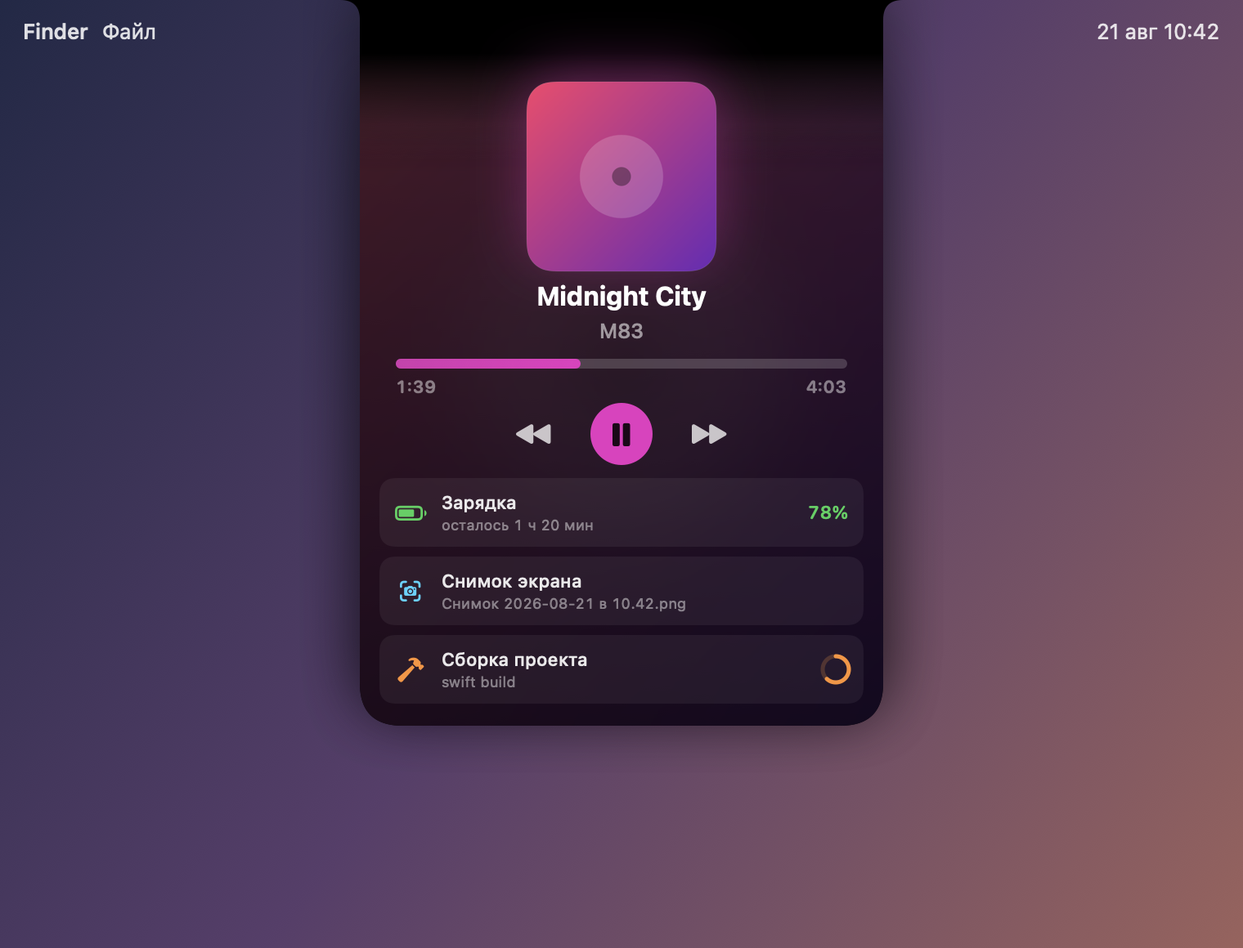
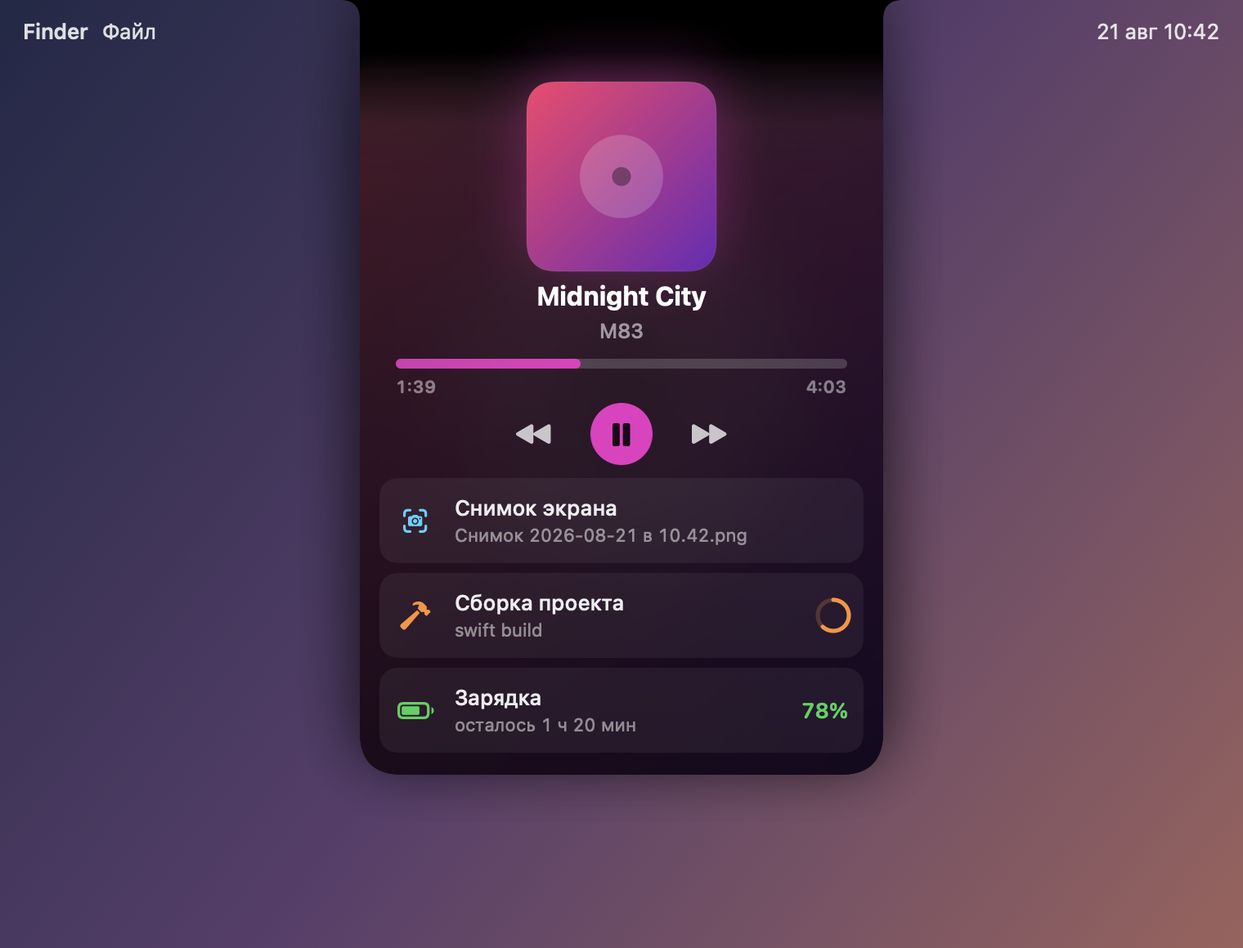
Иконки уведомлений, срезанные бока и тонкая обводка
**Иконки не находились у всех приложений с переводимым именем.**
В баннере имя на языке системы — «Редактор скриптов», — а в Info.plist
английское. Перевод лежит отдельной таблицей внутри бандла, и ни
displayName(atPath:), ни localizedInfoDictionary до неё не добираются:
они смотрят на язык нашего процесса, а не на содержимое чужого бандла.
Почта, Сообщения, Фото, Календарь — все оставались с нарисованной буквой
вместо иконки. Теперь приложения индексируются под всеми своими именами
сразу. Проверено живьём: значок стал настоящим.

**Срезанные бока.** Окно у карточки события и раскрытой панели общее,
а размер считался только по панели — карточка шире неё обрезалась вместе
со свечением. Диагностика заодно научилась отличать настоящую иконку
от нарисованной и показывать узлы последних баннеров: без этого понять,
почему у уведомления нет значка, нельзя.

**Крупнее — там, где просили.** Строки списка в раскрытом острове: 52
точки вместо 42, значок 32 вместо 24, текст 13 и 11 вместо 11 и 9.
А карточка уведомления вернулась к обычному размеру — увеличивать нужно
было не её.

**Тонкая линия вместо подтёка.** Обводка — одна линия в 1.2 точки, блик
бежит по ней самой, свечение осталось одно и едва заметное.

Changed region(s): [[0.2783, 0.5276, 0.7112, 0.8379], [0.6493, 0.5276, 0.6803, 0.5586]]

diff --git a/Sources/AuraCore/Activities/NotificationMirrorProvider.swift b/Sources/AuraCore/Activities/NotificationMirrorProvider.swift
@@ -102,6 +102,12 @@ final class NotificationMirrorProvider: ObservableObject {
     /// в одном разговоре повторяется, и через минуту это уже новое событие,
     /// а не тот же баннер, прочитанный второй раз.
     private var seen: [String: Date] = [:]
+    /// Последние разобранные баннеры — для диагностики.
+    ///
+    /// Уведомления с телефона приходят не в том же виде, что от приложений
+    /// на Маке, и понять, почему у одного из них не нашлось значка, можно
+    /// только по узлам самого баннера.
+    private(set) var recentBanners: [[String]] = []
     /// Обход открытых баннеров. Работает, только пока они на экране.
     private var sweepTimer: Timer?
     private var sweepStartedAt = Date()
@@ -434,9 +440,16 @@ final class NotificationMirrorProvider: ObservableObject {
         DispatchQueue.main.asyncAfter(deadline: .now() + 0.35) { [weak self] in
             guard let self else { return }
             let texts = Self.texts(in: window)
+            self.remember(texts)
             if let content = Self.content(from: texts) { self.present(content) }
             self.startSweep()
         }
+    }
+
+    private func remember(_ texts: [String]) {
+        guard !texts.isEmpty, recentBanners.last != texts else { return }
+        recentBanners.append(texts)
+        if recentBanners.count > 10 { recentBanners.removeFirst() }
     }
 
     /// Сколько времени одно и то же сообщение считается тем же самым.
@@ -498,7 +511,9 @@ final class NotificationMirrorProvider: ObservableObject {
             let texts = Self.texts(in: window)
             // Раскрытый центр уведомлений — это не баннер: в нём висят
             // виджеты, погода и биржа, и разбирать его как сообщение нельзя.
-            guard texts.count <= 12, let content = Self.content(from: texts) else { continue }
+            guard texts.count <= 12 else { continue }
+            remember(texts)
+            guard let content = Self.content(from: texts) else { continue }
             latestBanner = window
             present(content)
         }
@@ -520,7 +535,10 @@ final class NotificationMirrorProvider: ObservableObject {
         guard rule != "off" else { return }
 
         let application = Self.application(named: content.app)
-        let icon = Self.icon(named: content.app)
+        // Имя приложения в баннере бывает пустым — уведомления с телефона
+        // приходят не в том же виде, что от приложений на Маке. Тогда буква
+        // берётся от отправителя: он есть всегда, и это лучше пустого места.
+        let icon = Self.icon(named: content.app) ?? Self.monogram(for: content.sender)
         let kind = Self.kind(from: content.body)
         let tint = settings.notificationTintFromIcon
             ? (icon?.accentColor ?? .indigo)
@@ -760,6 +778,14 @@ final class NotificationMirrorProvider: ObservableObject {
 
     private nonisolated(unsafe) static var monograms: [String: NSImage] = [:]
 
+    /// Нарисованный нами значок или настоящая иконка приложения.
+    /// В диагностике это единственный способ отличить «иконку не нашли»
+    /// от «иконки нет вовсе».
+    static func isMonogram(_ image: NSImage?) -> Bool {
+        guard let image else { return false }
+        return monograms.values.contains { $0 === image }
+    }
+
     /// Установленные приложения: имя → бандл.
     ///
     /// Перебор папок стоит десятки миллисекунд, а состав меняется редко,
@@ -811,12 +837,13 @@ final class NotificationMirrorProvider: ObservableObject {
                 // Имя в баннере — то, которое видит человек, а оно переведено:
                 // на русской системе «Сообщения», а в Info.plist «Messages».
                 // `displayName(atPath:)` отдаёт именно видимое имя.
-                let names = [
+                var names = [
                     FileManager.default.displayName(atPath: url.path),
                     Bundle(url: url)?.localizedInfoDictionary?["CFBundleDisplayName"] as? String,
                     Bundle(url: url)?.displayName,
                     url.deletingPathExtension().lastPathComponent,
                 ].compactMap { $0 }
+                names += localizedNames(of: url)
 
                 for name in names {
                     let key = normalized(name)
@@ -826,6 +853,42 @@ final class NotificationMirrorProvider: ObservableObject {
             }
         }
         return result
+    }
+
+    /// Все имена, под которыми приложение известно на разных языках.
+    ///
+    /// В баннере имя переведённое, и взять его из `Info.plist` нельзя: там
+    /// лежит английское. Перевод хранится отдельно — у современных приложений
+    /// одной таблицей `InfoPlist.loctable` со всеми языками сразу, у старых
+    /// файлом на язык. Ни `displayName(atPath:)`, ни `localizedInfoDictionary`
+    /// до него не добираются: они смотрят на язык нашего процесса, а не на
+    /// содержимое чужого бандла. Из-за этого «Редактор скриптов» не находил
+    /// сам «Script Editor», и уведомление оставалось без иконки.
+    private static func localizedNames(of url: URL) -> [String] {
+        let resources = url.appendingPathComponent("Contents/Resources")
+        var names: [String] = []
+
+        let loctable = resources.appendingPathComponent("InfoPlist.loctable")
+        if let table = NSDictionary(contentsOf: loctable) as? [String: [String: Any]] {
+            for entry in table.values {
+                names += [entry["CFBundleDisplayName"], entry["CFBundleName"]]
+                    .compactMap { $0 as? String }
+            }
+            return names
+        }
+
+        // Старый формат — по файлу на язык. Заглядываем сюда только когда
+        // общей таблицы нет: это десятки лишних чтений на приложение.
+        let folders = (try? FileManager.default.contentsOfDirectory(
+            at: resources, includingPropertiesForKeys: nil, options: [.skipsHiddenFiles]
+        )) ?? []
+
+        for folder in folders.prefix(40) where folder.pathExtension == "lproj" {
+            let strings = folder.appendingPathComponent("InfoPlist.strings")
+            guard let table = NSDictionary(contentsOf: strings) as? [String: String] else { continue }
+            names += [table["CFBundleDisplayName"], table["CFBundleName"]].compactMap { $0 }
+        }
+        return names
     }
 
     private static func application(named name: String) -> NSRunningApplication? {

diff --git a/Sources/AuraCore/Activities/ActivitiesPane.swift b/Sources/AuraCore/Activities/ActivitiesPane.swift
@@ -6,7 +6,12 @@ import SwiftUI
 struct ActivitiesPane: View {
     /// Высота одной строки и шапки со счётчиком. Те же числа знает
     /// `NotchViewModel`, иначе расчёт панели разойдётся с разметкой.
-    static let rowHeight: CGFloat = 42
+    /// Высота строки списка.
+    ///
+    /// Список в раскрытом острове — это то, во что смотрят в упор, а не
+    /// мельком: сорок две точки на строку с девятипунктовым текстом читались
+    /// как мелкий шрифт в договоре.
+    static let rowHeight: CGFloat = 52
     static let headerHeight: CGFloat = 22
     static let bannerHeight: CGFloat = 54
 
@@ -45,7 +50,7 @@ struct ActivitiesPane: View {
             .padding(.vertical, 4)
             .background(Capsule().fill(Color.white.opacity(0.12)))
         }
-        .padding(.horizontal, 9)
+        .padding(.horizontal, 11)
         .frame(height: Self.bannerHeight)
         .background(RoundedRectangle(cornerRadius: 10).fill(Color.orange.opacity(0.14)))
     }
@@ -155,30 +160,32 @@ private struct ActivityRow: View {
     }
 
     private var content: some View {
-        HStack(spacing: 9) {
+        HStack(spacing: 11) {
             icon
 
-            VStack(alignment: .leading, spacing: 1) {
+            VStack(alignment: .leading, spacing: 2) {
                 Text(activity.title)
-                    .font(.system(size: 11, weight: .medium))
-                    .foregroundStyle(.white.opacity(0.9))
+                    .font(.system(size: 13, weight: .medium))
+                    .foregroundStyle(.white.opacity(0.92))
+                    .lineLimit(1)
                 if let subtitle = activity.subtitle {
                     Text(subtitle)
-                        .font(.system(size: 9))
-                        .foregroundStyle(.white.opacity(0.45))
+                        .font(.system(size: 11))
+                        .foregroundStyle(.white.opacity(0.5))
                         .monospacedDigit()
+                        .lineLimit(1)
                 }
             }
 
-            Spacer(minLength: 4)
+            Spacer(minLength: 8)
 
             switch activity.indicator {
             case .progress(let value):
                 ProgressRing(progress: value, tint: activity.tint)
-                    .frame(width: 16, height: 16)
+                    .frame(width: 19, height: 19)
             case .text(let text):
                 Text(text)
-                    .font(.system(size: 11, weight: .semibold, design: .rounded))
+                    .font(.system(size: 13, weight: .semibold, design: .rounded))
                     .foregroundStyle(activity.tint)
                     .monospacedDigit()
             case .pulse:
@@ -194,7 +201,7 @@ private struct ActivityRow: View {
         // и если строка окажется выше расчёта — низ списка просто срежется
         // краем панели. Лучше одинаковые строки, чем обрезанный список.
         .frame(height: ActivitiesPane.rowHeight)
-        .background(RoundedRectangle(cornerRadius: 9).fill(Color.white.opacity(0.06)))
+        .background(RoundedRectangle(cornerRadius: 11).fill(Color.white.opacity(0.06)))
     }
 
     @ViewBuilder
@@ -203,13 +210,13 @@ private struct ActivityRow: View {
             Image(nsImage: artwork)
                 .resizable()
                 .aspectRatio(contentMode: .fill)
-                .frame(width: 24, height: 24)
-                .clipShape(RoundedRectangle(cornerRadius: 5, style: .continuous))
+                .frame(width: 32, height: 32)
+                .clipShape(RoundedRectangle(cornerRadius: 7, style: .continuous))
         } else {
             Image(systemName: activity.symbol)
-                .font(.system(size: 13, weight: .semibold))
+                .font(.system(size: 15, weight: .semibold))
                 .foregroundStyle(activity.tint)
-                .frame(width: 20)
+                .frame(width: 26)
         }
     }
 }

diff --git a/Sources/AuraCore/Activities/EventCard.swift b/Sources/AuraCore/Activities/EventCard.swift
@@ -158,48 +158,42 @@ struct EventRim: View {
 
     var body: some View {
         ZStack {
-            // Ровная обводка — основа, она есть всегда.
+            // Тонкая линия — основа. Именно она и должна читаться как
+            // обводка: широкое свечение вокруг выреза выглядело подтёком,
+            // а не аккуратным контуром.
             shape
                 .stroke(
                     LinearGradient(
-                        colors: [vivid, vivid.opacity(0.45)],
+                        colors: [vivid, vivid.opacity(0.5)],
                         startPoint: .top,
                         endPoint: .bottom
                     ),
-                    lineWidth: 1.6
+                    lineWidth: 1.2
                 )
 
-            // Бегущий блик: вращается сам градиент, а не фигура, — иначе
-            // вместе со светом поехал бы и контур выреза.
+            // Блик бежит по самой линии: вращается сам градиент, а не фигура, —
+            // иначе вместе со светом поехал бы и контур выреза.
             shape
                 .stroke(
                     AngularGradient(
                         gradient: Gradient(stops: [
                             .init(color: .clear, location: 0),
-                            .init(color: .white.opacity(0.9), location: 0.06),
-                            .init(color: vivid, location: 0.12),
-                            .init(color: .clear, location: 0.28),
+                            .init(color: .white.opacity(0.85), location: 0.05),
+                            .init(color: vivid, location: 0.1),
+                            .init(color: .clear, location: 0.22),
                             .init(color: .clear, location: 1),
                         ]),
                         center: .center,
                         angle: .degrees(sweep)
                     ),
-                    lineWidth: 2.2
+                    lineWidth: 1.4
                 )
-                .blur(radius: 1.2)
 
-            // Свечение наружу тремя слоями с разным размытием: два дают
-            // ступеньку, которая читается как вторая обводка, а не как ореол.
-            // Каждый следующий шире и слабее — так свет затухает плавно.
+            // Одно мягкое свечение — только чтобы линия не выглядела
+            // приклеенной. Оно едва заметно и сразу за линией затухает.
             shape
-                .stroke(vivid.opacity(settled ? 0.7 : 0.95), lineWidth: 2.5)
-                .blur(radius: 4)
-            shape
-                .stroke(vivid.opacity(settled ? 0.4 : 0.6), lineWidth: 5)
-                .blur(radius: 11)
-            shape
-                .stroke(vivid.opacity(settled ? 0.2 : 0.35), lineWidth: 9)
-                .blur(radius: 20)
+                .stroke(vivid.opacity(settled ? 0.35 : 0.6), lineWidth: 2)
+                .blur(radius: 5)
         }
         .allowsHitTesting(false)
         .onAppear {

diff --git a/Tests/AuraCoreTests/NotificationTests.swift b/Tests/AuraCoreTests/NotificationTests.swift
@@ -176,6 +176,21 @@ final class NotificationMonogramTests: XCTestCase {
         XCTAssertEqual(icon?.size, CGSize(width: 64, height: 64))
     }
 
+    /// Имя в баннере переведённое, а в `Info.plist` лежит английское.
+    /// Перевод хранится отдельной таблицей внутри бандла, и без неё
+    /// «Редактор скриптов» не находил сам «Script Editor» — уведомление
+    /// оставалось с нарисованной буквой вместо иконки. Так было со всеми
+    /// приложениями, у которых имя переводится: Почта, Сообщения, Фото.
+    func testLocalizedAppNameFindsTheRealIcon() throws {
+        let icon = NotificationMirrorProvider.icon(named: "Редактор скриптов")
+        try XCTSkipIf(icon == nil, "Редактора скриптов нет на этой машине")
+
+        XCTAssertFalse(
+            NotificationMirrorProvider.isMonogram(icon),
+            "нашлась нарисованная буква, а не иконка приложения"
+        )
+    }
+
     func testSameNameKeepsTheSameLook() {
         let first = NotificationMirrorProvider.monogram(for: "Госуслуги")
         let second = NotificationMirrorProvider.monogram(for: "Госуслуги")

diff --git a/Sources/AuraCore/App/AppDelegate.swift b/Sources/AuraCore/App/AppDelegate.swift
@@ -226,6 +226,7 @@ public final class AppDelegate: NSObject, NSApplicationDelegate, NSMenuDelegate 
             payload["снимки"] = screenshots.diagnostics
             // Разговоры видно поимённо: разбиение по чатам иначе не проверить —
             // снаружи виден только общий счётчик активностей.
+            payload["последниеБаннеры"] = notifications.recentBanners.suffix(4).map { $0 }
             payload["чаты"] = notifications.threads.reduce(into: [String: Int]()) {
                 $0[$1.key.replacingOccurrences(of: "\u{1}", with: " → ")] = $1.value
             }
@@ -240,6 +241,7 @@ public final class AppDelegate: NSObject, NSApplicationDelegate, NSMenuDelegate 
                 [
                     "приложение": message.app,
                     "значокНайден": message.icon != nil,
+                    "значокСвой": NotificationMirrorProvider.isMonogram(message.icon),
                     "идентификатор": message.bundleID ?? "—",
                     "тип": String(describing: message.kind),
                 ] as [String: Any]

diff --git a/Sources/AuraCore/Notch/NotchViewModel.swift b/Sources/AuraCore/Notch/NotchViewModel.swift
@@ -101,9 +101,16 @@ final class NotchViewModel: ObservableObject {
     /// не проваливался.
     var expandedWindowSize: CGSize {
         let panel = expandedSize
+        // Карточка уведомления бывает шире раскрытой панели, а окно у них
+        // общее. Мерить только по панели значит обрезать карточку по бокам
+        // вместе со свечением обводки — ровно это и было видно как
+        // «срезанные края».
+        let widest = max(panel.width, eventSize.width)
+        let tallest = max(panel.height, eventSize.height)
+
         return CGSize(
-            width: min(Self.windowSize.width, max(compactWindowWidth, panel.width + 120)),
-            height: min(Self.windowSize.height, panel.height + 90)
+            width: min(Self.windowSize.width, max(compactWindowWidth, widest + 120)),
+            height: min(Self.windowSize.height, tallest + 90)
         )
     }
 

diff --git a/Sources/AuraCore/Settings/SettingsStore.swift b/Sources/AuraCore/Settings/SettingsStore.swift
@@ -231,7 +231,7 @@ final class SettingsStore: ObservableObject {
         notificationStyle = defaults.string(forKey: "notificationStyle") ?? "card"
         notificationHold = double("notificationHold", 5)
         notificationBadgeTTL = double("notificationBadgeTTL", 10)
-        notificationScale = double("notificationScale", 1.25)
+        notificationScale = double("notificationScale", 1)
         notificationShowBody = bool("notificationShowBody", true)
         notificationTintFromIcon = bool("notificationTintFromIcon", true)
         notificationBadgeWhenAppOpen = bool("notificationBadgeWhenAppOpen", true)

diff --git a/Sources/AuraCore/Notch/NotchRootView.swift b/Sources/AuraCore/Notch/NotchRootView.swift
@@ -315,7 +315,7 @@ struct NotchRootView: View {
     }
 
     /// Насколько свечению позволено выходить за кромку карточки.
-    static let rimBleed: CGFloat = 26
+    static let rimBleed: CGFloat = 14
 
     /// Обводка проявляется только ниже выреза.
     ///
